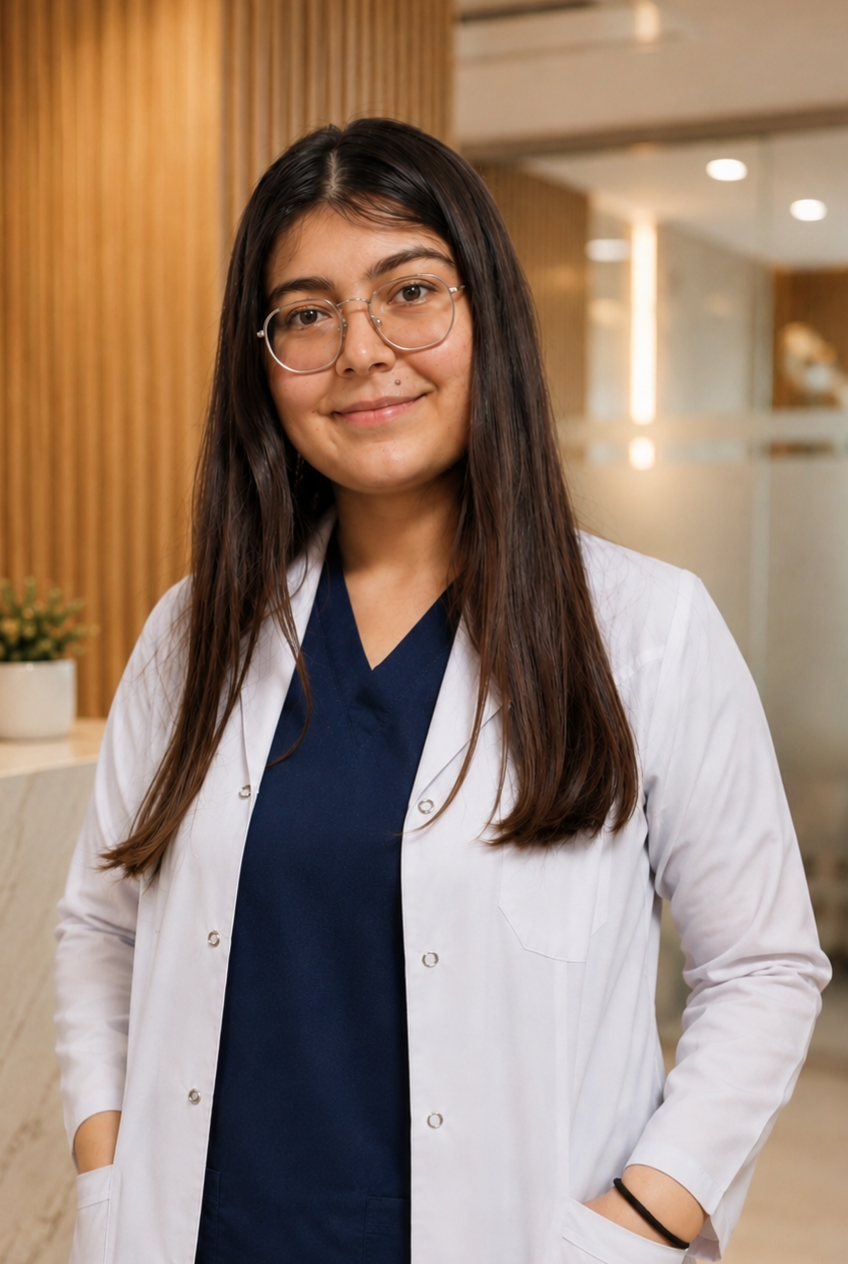
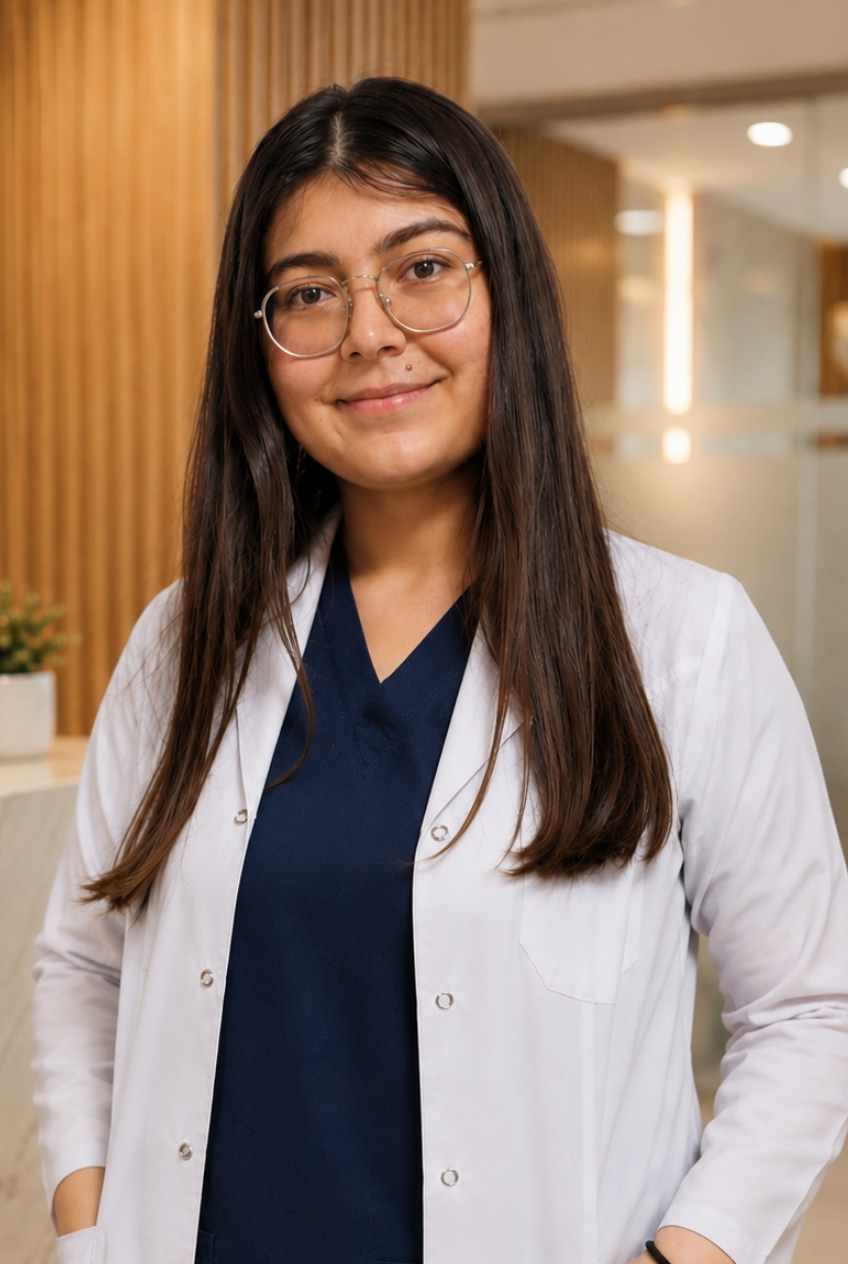
feat: enhance emergency accessibility and SEO
Add 24/7 emergency call buttons to the interface and update SEO meta tags, site schema, and keywords to improve discoverability for emergency dental services in Bursa.

diff --git a/index.html b/index.html
@@ -4,26 +4,30 @@
 <head>
   <meta charset="UTF-8" />
   <meta name="viewport" content="width=device-width, initial-scale=1.0" />
-  <title>Mesam Beşyol Diş Kliniği</title>
+  <title>Mesam Beşyol Diş Kliniği | Bursa 7/24 Acil &amp; Nöbetçi Diş Hekimi</title>
   <!-- SEO Meta Tags -->
-  <meta name="description" content="Mesam Beşyol Diş Kliniği - Uzman hekim kadrosuyla implant, zirkonyum, gülüş tasarımı ve tüm diş tedavi hizmetleriniz için Küçükçekmece Beşyol'da hizmetinizdeyiz." />
-  <meta name="keywords" content="diş kliniği, diş hekimi, implant, zirkonyum, diş beyazlatma, mesam diş, beşyol diş, küçükçekmece diş hekimi, gülüş tasarımı" />
+  <meta name="description" content="Mesam Beşyol Diş Kliniği - Bursa Osmangazi'de 7/24 açık nöbetçi acil diş kliniği! Gece ve gündüz uzman hekim kadrosuyla acil diş tedavisi, implant, 20'lik diş çekimi, kanal tedavisi ve gülüş tasarımı hizmetleri sunuyoruz." />
+  <meta name="keywords" content="bursa 7 24 diş hekimi, bursa nöbetçi diş hekimi, bursa acil diş kliniği, bursa gece açık dişçi, osmangazi diş hekimi, beşyol diş kliniği, mesam beşyol bursa, acil diş ağrısı bursa, bursa diş hastanesi acil, implant bursa, zirkonyum bursa" />
   <meta name="author" content="Mesam Beşyol Diş Kliniği" />
   <meta name="publisher" content="Mesam Beşyol Diş Kliniği" />
   <meta name="robots" content="index, follow" />
+  <meta name="geo.region" content="TR-16" />
+  <meta name="geo.placename" content="Osmangazi, Bursa" />
+  <meta name="geo.position" content="40.2198;29.0435" />
+  <meta name="ICBM" content="40.2198, 29.0435" />
   
   <!-- Open Graph / Facebook -->
   <meta property="og:type" content="website" />
   <meta property="og:url" content="https://www.mesambesyol.com/" />
-  <meta property="og:title" content="Mesam Beşyol Diş Kliniği" />
-  <meta property="og:description" content="Mesam Beşyol Diş Kliniği - Uzman hekim kadrosuyla implant, zirkonyum, gülüş tasarımı ve tüm diş tedavi hizmetleriniz için Küçükçekmece Beşyol'da hizmetinizdeyiz." />
+  <meta property="og:title" content="Mesam Beşyol Diş Kliniği | Bursa 7/24 Acil &amp; Nöbetçi Diş Hekimi" />
+  <meta property="og:description" content="Bursa Osmangazi Mesam Beşyol Diş Kliniği - 7/24 açık nöbetçi acil diş kliniği. Gece ve gündüz kesintisiz acil diş hekimi, implant, kanal tedavisi ve gülüş tasarımı ile hizmetinizdeyiz." />
   <meta property="og:image" content="https://i.imgur.com/QdQZMTw.png" />
 
   <!-- Twitter -->
   <meta property="twitter:card" content="summary_large_image" />
   <meta property="twitter:url" content="https://www.mesambesyol.com/" />
-  <meta property="twitter:title" content="Mesam Beşyol Diş Kliniği" />
-  <meta property="twitter:description" content="Mesam Beşyol Diş Kliniği - Uzman hekim kadrosuyla implant, zirkonyum, gülüş tasarımı ve tüm diş tedavi hizmetleriniz için Küçükçekmece Beşyol'da hizmetinizdeyiz." />
+  <meta property="twitter:title" content="Mesam Beşyol Diş Kliniği | Bursa 7/24 Acil &amp; Nöbetçi Diş Hekimi" />
+  <meta property="twitter:description" content="Bursa Osmangazi Mesam Beşyol Diş Kliniği - 7/24 açık nöbetçi acil diş kliniği. Gece ve gündüz kesintisiz acil diş hekimi, implant, kanal tedavisi ve gülüş tasarımı ile hizmetinizdeyiz." />
   <meta property="twitter:image" content="https://i.imgur.com/QdQZMTw.png" />
   <!-- Favicon -->
   <link rel="icon" type="image/png" href="https://i.imgur.com/QdQZMTw.png">

diff --git a/components/TopBar.tsx b/components/TopBar.tsx
@@ -41,22 +41,41 @@ const TopBar: React.FC = () => {
                         <span>{fullAddress}</span>
                     </a>
 
-                    {/* Live Duty Doctor Status Badge (Only active between 19:00 and 09:00) */}
-                    {isNightDuty && (
+                    {/* 7/24 Status Badge */}
+                    {isNightDuty ? (
                         <span className="hidden md:inline-flex items-center gap-1.5 px-2.5 py-0.5 rounded-full bg-emerald-950/80 border border-emerald-500/40 text-emerald-300 text-[11px] font-medium shadow-xs">
                             <span className="w-2 h-2 rounded-full bg-emerald-400 live-duty-pulse inline-block" />
-                            <span>7/24 Açık &amp; Nöbetçi Hekim Aktif</span>
+                            <span>7/24 Açık • Nöbetçi Hekim Aktif</span>
+                        </span>
+                    ) : (
+                        <span className="hidden md:inline-flex items-center gap-1.5 px-2.5 py-0.5 rounded-full bg-sky-950/80 border border-sky-500/40 text-sky-300 text-[11px] font-medium shadow-xs">
+                            <span className="w-2 h-2 rounded-full bg-sky-400 inline-block" />
+                            <span>7/24 Kesintisiz Açık Diş Kliniği</span>
                         </span>
                     )}
                 </div>
 
-                {/* Social icons on the right */}
-                <div className="flex items-center space-x-4">
-                    {/* Mobile Duty Indicator (Only active between 19:00 and 09:00) */}
-                    {isNightDuty && (
+                {/* Right side: Emergency phone & Social icons */}
+                <div className="flex items-center space-x-3 sm:space-x-4">
+                    {/* Emergency Call Link */}
+                    <a
+                        href="tel:+905366549868"
+                        className="inline-flex items-center gap-1.5 text-emerald-400 hover:text-emerald-300 font-semibold transition-colors"
+                        aria-label="7/24 Acil Diş Nöbetçi Hattı: 0536 654 98 68"
+                    >
+                        <span className="w-2 h-2 rounded-full bg-emerald-400 live-duty-pulse inline-block" />
+                        <span className="font-bold">7/24 Acil:</span>
+                        <span>0536 654 98 68</span>
+                    </a>
+
+                    {/* Mobile Duty Indicator */}
+                    {isNightDuty ? (
                         <span className="inline-flex md:hidden items-center gap-1.5 px-2 py-0.5 rounded-full bg-emerald-950/80 border border-emerald-500/40 text-emerald-300 text-[10px] font-medium">
-                            <span className="w-1.5 h-1.5 rounded-full bg-emerald-400 live-duty-pulse inline-block" />
-                            <span>Nöbetçi Hekim Görevde</span>
+                            <span>Nöbetçi Hekim</span>
+                        </span>
+                    ) : (
+                        <span className="inline-flex md:hidden items-center gap-1.5 px-2 py-0.5 rounded-full bg-sky-950/80 border border-sky-500/40 text-sky-300 text-[10px] font-medium">
+                            <span>7/24</span>
                         </span>
                     )}
                     {socialLinks.map((link) => (

diff --git a/App.tsx b/App.tsx
@@ -19,7 +19,7 @@ import AppointmentPage from './pages/AppointmentPage';
 import QuizPage from './pages/QuizPage';
 import { useLanguage } from './contexts/LanguageContext';
 import ScrollToTop from './components/ScrollToTop';
-import { WhatsAppIcon } from './constants/icons';
+import { WhatsAppIcon, PhoneIcon } from './constants/icons';
 import KVKKPage from './pages/KVKKPage';
 import FormSuccessPage from './pages/FormSuccessPage';
 import NotFoundPage from './pages/NotFoundPage';
@@ -54,12 +54,31 @@ const App: React.FC = () => {
           </ReactRouterDom.Routes>
         </main>
         <Footer />
-        <div className="fixed bottom-6 right-6 z-50">
+        <div className="fixed bottom-6 right-6 z-50 flex flex-col items-end gap-3 pointer-events-none">
+          {/* 7/24 Emergency Call Button */}
+          <a
+            href="tel:+905366549868"
+            className="pointer-events-auto group flex items-center gap-2.5 bg-gradient-to-r from-red-600 to-rose-700 hover:from-red-700 hover:to-rose-800 text-white pl-3.5 pr-4 py-2 rounded-full shadow-2xl transition-all duration-300 hover:scale-105 active:scale-95 border-2 border-white/90"
+            aria-label="7/24 Acil Diş Nöbetçi Hattı Ara"
+            title="7/24 Acil Nöbetçi Diş Hekimi"
+          >
+            <span className="relative flex h-2.5 w-2.5">
+              <span className="animate-ping absolute inline-flex h-full w-full rounded-full bg-amber-300 opacity-75"></span>
+              <span className="relative inline-flex rounded-full h-2.5 w-2.5 bg-amber-400"></span>
+            </span>
+            <PhoneIcon className="w-4 h-4 text-white animate-pulse" />
+            <div className="flex flex-col items-start leading-none text-left">
+              <span className="text-[9px] font-black uppercase text-amber-300 tracking-wider">7/24 ACİL DİŞ</span>
+              <span className="text-xs font-bold tracking-tight">0536 654 98 68</span>
+            </div>
+          </a>
+
+          {/* WhatsApp Button */}
           <a
             href={whatsappLink}
             target="_blank"
             rel="noopener noreferrer"
-            className="w-14 h-14 bg-[#25D366] hover:bg-[#128C7E] text-white rounded-full flex items-center justify-center shadow-lg transition-all duration-300 hover:scale-105 relative group cta-pulse"
+            className="pointer-events-auto w-14 h-14 bg-[#25D366] hover:bg-[#128C7E] text-white rounded-full flex items-center justify-center shadow-lg transition-all duration-300 hover:scale-105 relative group cta-pulse"
             aria-label={t('header.whatsappLine')}
             title="WhatsApp Randevu Hattı"
           >

diff --git a/components/MetaTags.tsx b/components/MetaTags.tsx
@@ -31,12 +31,27 @@ const MetaTags: React.FC<MetaTagsProps> = ({ page, data }) => {
       const baseSchema = {
       "@context": "https://schema.org",
       "@type": ["Dentist", "MedicalClinic", "LocalBusiness"],
-      "name": t('appName'),
+      "name": `${t('appName')} | Bursa 7/24 Acil & Nöbetçi Diş Kliniği`,
+      "alternateName": "Mesam Beşyol Diş Kliniği",
+      "description": "Bursa Osmangazi'de 7/24 açık nöbetçi acil diş kliniği. Gece ve gündüz kesintisiz acil diş hekimi, implant, kanal tedavisi ve gülüş tasarımı.",
       "image": logoUrl,
       "@id": siteUrl,
       "url": siteUrl,
       "telephone": "+905366549868",
       "priceRange": "₺₺",
+      "medicalSpecialty": "Emergency Dentistry",
+      "currenciesAccepted": "TRY",
+      "paymentAccepted": "Cash, Credit Card",
+      "areaServed": [
+        {
+          "@type": "City",
+          "name": "Bursa"
+        },
+        {
+          "@type": "AdministrativeArea",
+          "name": "Osmangazi"
+        }
+      ],
       "address": {
           "@type": "PostalAddress",
           "streetAddress": t('footer.addressLine1'),
@@ -213,6 +228,11 @@ const MetaTags: React.FC<MetaTagsProps> = ({ page, data }) => {
     <Helmet>
       <title>{title}</title>
       <meta name="description" content={description} />
+      <meta name="keywords" content="bursa 7 24 diş hekimi, bursa nöbetçi diş hekimi, bursa acil diş kliniği, bursa gece açık dişçi, osmangazi diş hekimi, beşyol diş kliniği, mesam beşyol bursa, acil diş ağrısı bursa, bursa diş hastanesi acil, implant bursa, zirkonyum bursa" />
+      <meta name="geo.region" content="TR-16" />
+      <meta name="geo.placename" content="Osmangazi, Bursa" />
+      <meta name="geo.position" content="40.2198;29.0435" />
+      <meta name="ICBM" content="40.2198, 29.0435" />
       <link rel="canonical" href={canonicalUrl} />
       
       <meta property="og:title" content={title} />

diff --git a/translations/tr.ts b/translations/tr.ts
@@ -4,7 +4,7 @@ export const trTranslations = {
   appName: "Mesam Beşyol Diş Kliniği",
   header: {
     whatsappLine: "WhatsApp Hattı",
-    open247: "7/24 Açığız",
+    open247: "7/24 Açık Nöbetçi Klinik",
   },
   buttons: {
     appointment: "Bizimle Çalışın",
@@ -343,8 +343,8 @@ export const trTranslations = {
   },
   meta: {
     home: {
-      title: "Mesam Beşyol Diş Kliniği | Bursa 7/24 Acil Diş Hekimi",
-      description: "Bursa Osmangazi'de 7/24 açık Mesam Beşyol Diş Kliniği. İmplant, gülüş tasarımı, ortodonti ve acil diş hekimliği için uzman kadromuzla tanışın."
+      title: "Mesam Beşyol Diş Kliniği | Bursa 7/24 Acil & Nöbetçi Diş Hekimi",
+      description: "Bursa Osmangazi'de 7/24 açık nöbetçi acil diş kliniği! Gece ve gündüz uzman hekim kadrosuyla acil diş tedavisi, implant, 20'lik diş çekimi, kanal tedavisi ve estetik diş hekimliği için kesintisiz hizmetinizdeyiz."
     },
     about: {
       title: "Hakkımızda | Mesam Beşyol Diş Kliniği | Bursa",

diff --git a/components/StaffCard.tsx b/components/StaffCard.tsx
@@ -1,7 +1,6 @@
-import React, { useState, useRef } from 'react';
+import React, { useState } from 'react';
 import { StaffMember } from '../types';
 import { useLanguage } from '../contexts/LanguageContext';
-import { SparklesIcon } from '../constants/icons';
 
 interface StaffCardProps {
   member: StaffMember;
